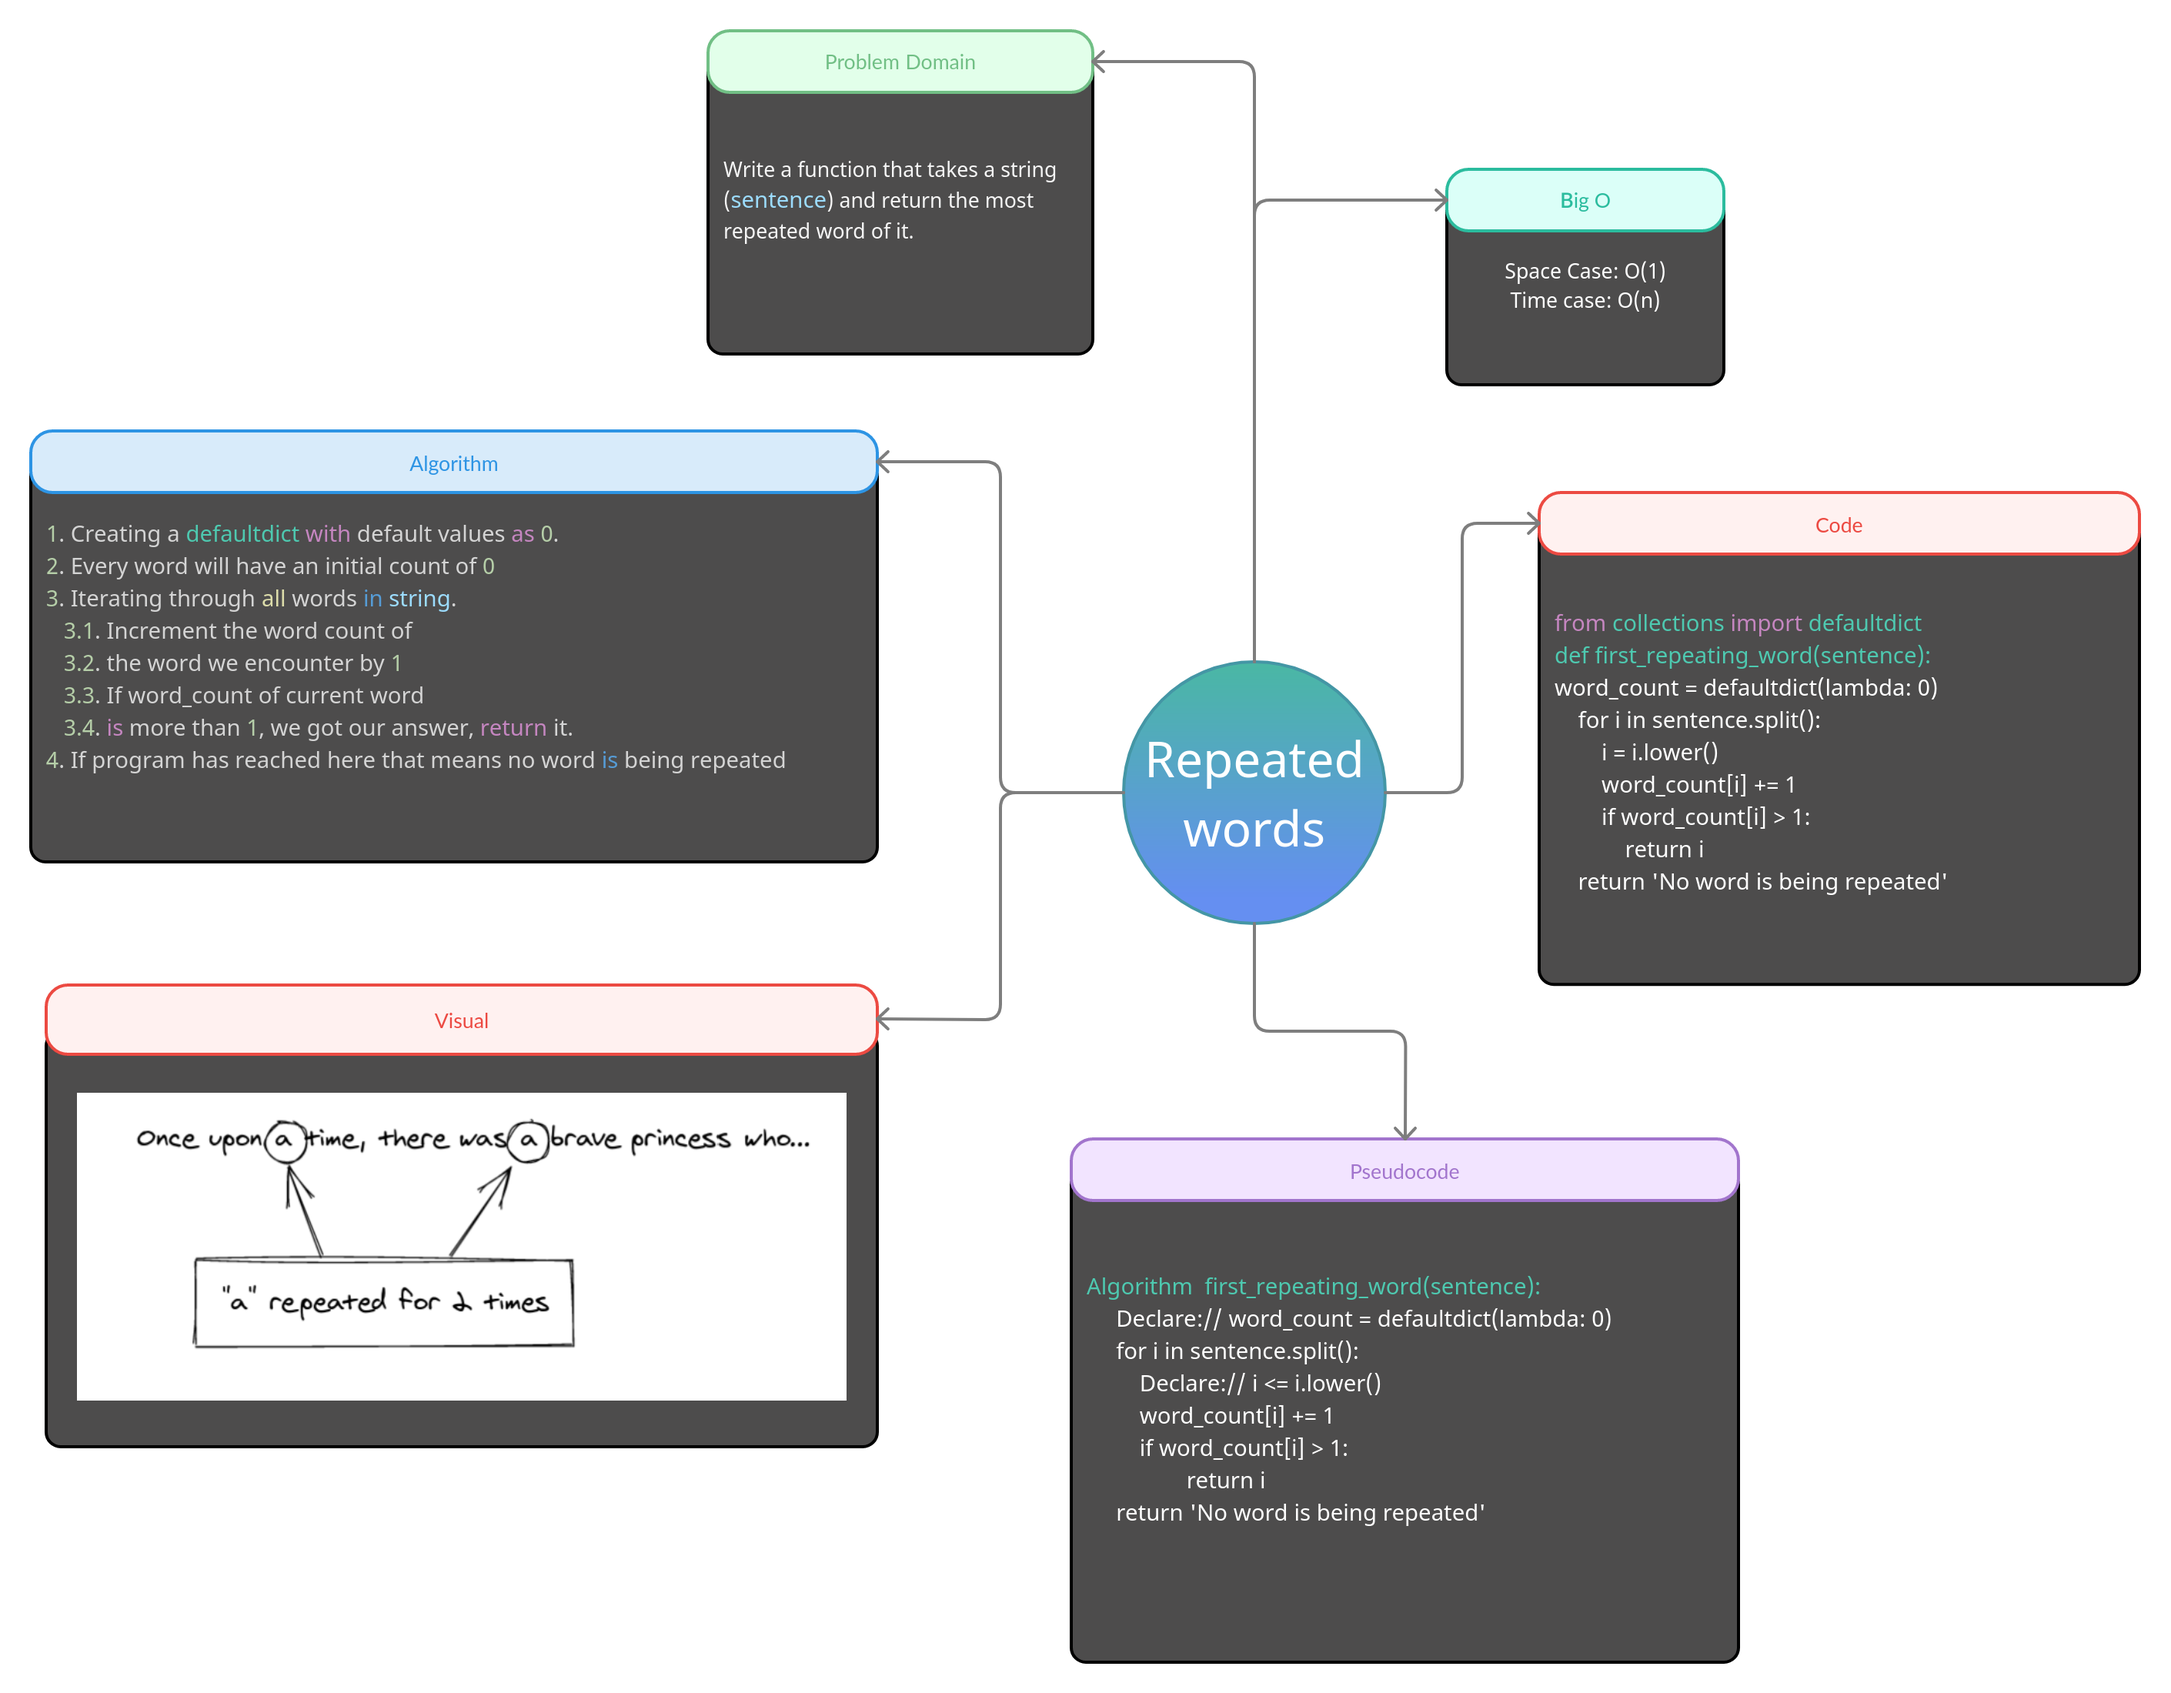
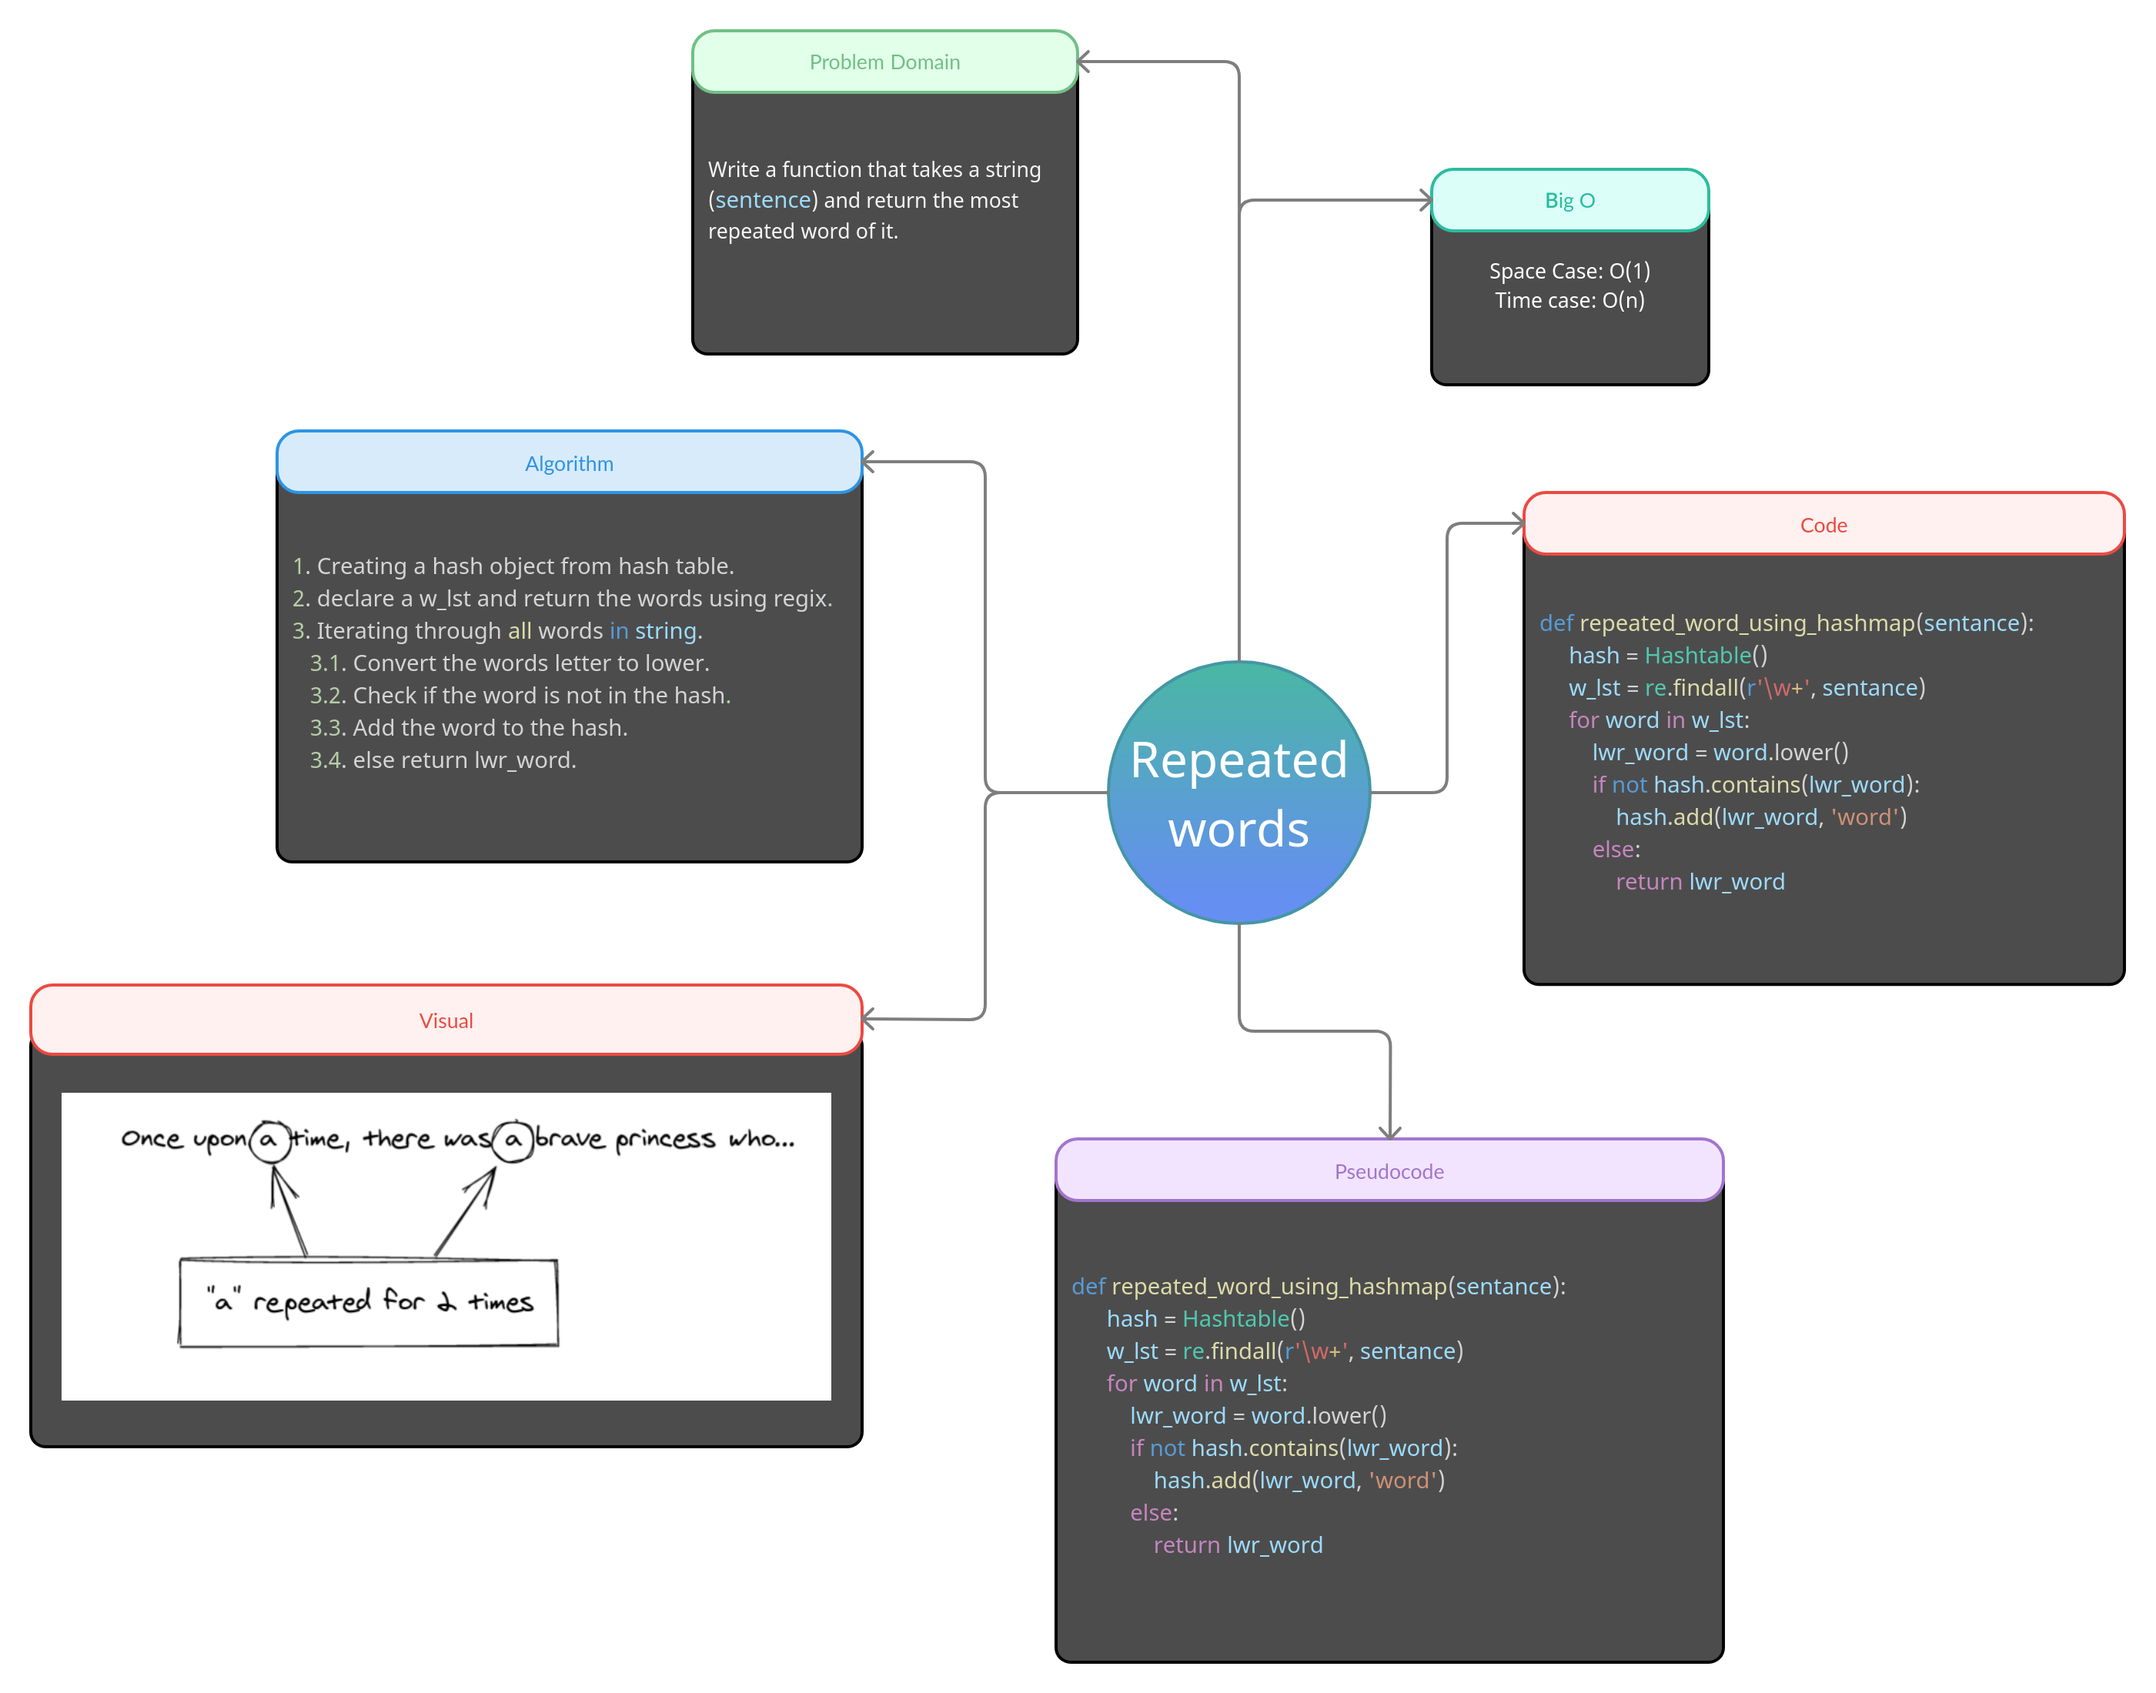
fixed with hash map

diff --git a/python/repeated_word/README.md b/python/repeated_word/README.md
@@ -6,7 +6,7 @@
 3. return the first word to occur more than once in that provided string.
 
 ## Approach 
-1. **Using `defaultdict`:** Returns a new dictionary-like object. defaultdict is a subclass of the built-in dict class. It overrides one method and adds one writable instance variable. The remaining functionality is the same as for the dict class.
+1. **Using `Hash Map`:** to add the words in lower case to as a key.
 
 2. **Returning:** the most repeated word in a sentance.
 
